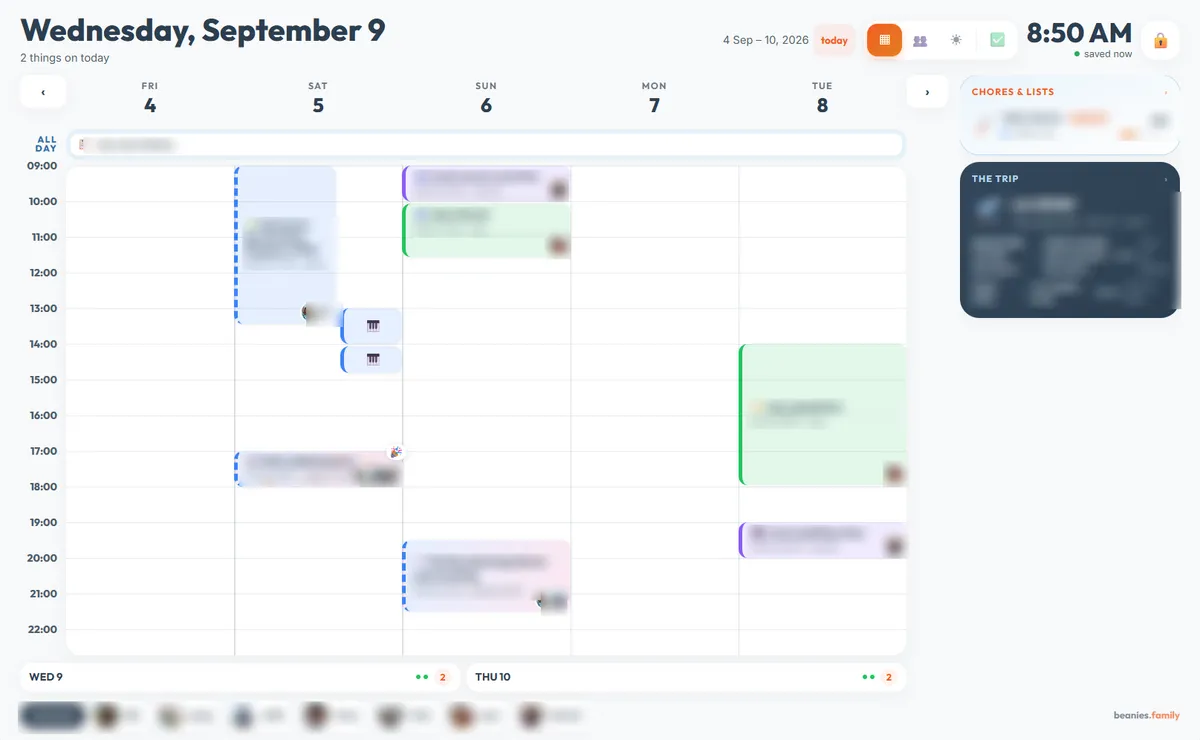
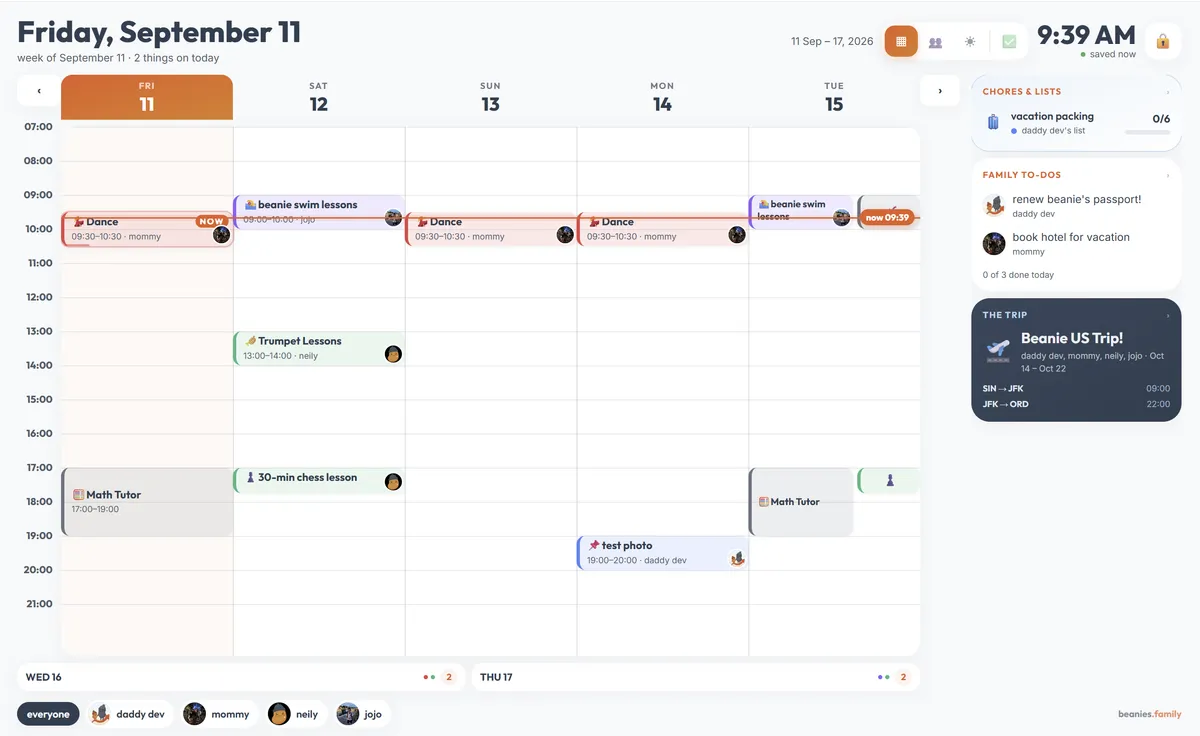
content(blog): real family data out of the wall screenshots
Both wall shots are re-shot on the dev server with a fake family, replacing
the blur. Better outcome than blurring on every count: the UI reads properly
again, and there is nothing left to un-blur.

What the old pair leaked, and no longer does: seven real first names, the
kids' activities and schools, and a dated flight itinerary that doubled as a
notice of when the house would be empty.

Also from Notion: the first caption drops "not actually from 1970" (the image
is plainly a 1970 calendar, so the line read as an error rather than a joke),
both wall captions are rewritten, and "an app for that, too" takes its comma.
Alt text re-written against what the new screenshots actually show, not
carried over from the old ones.

Claude-Session: https://claude.ai/code/session_0142LvHxKZrUvYQzTvoH7LL1

diff --git a/content/blog/2026-09-11-beanie-wall-for-your-whole-family.md b/content/blog/2026-09-11-beanie-wall-for-your-whole-family.md
@@ -22,7 +22,7 @@ At the end of every year, one of the holiday presents from my mom would always b
 
 ![A vintage SAS Scandinavian Airlines wall calendar opened to October 1970, an abstract painting of a Bangkok floating market above the month grid, with a few days annotated by hand](/blog/beanie-wall-kitchen-calendar.webp)
 
-_not my actual family calendar. but something like this. not actually from 1970._
+_not my actual family calendar. but something like this. brings back memories._
 
 And by the way, while we’re taking this nice walk down memory lane, another fond memory from childhood was the weekly allowance I got for doing my chores every day (well - almost every day). My chores routine taught me a valuable lesson in responsibility, hard work, and exploiting legal loopholes. Because, and I’m a bit nervous to say this, since this is the first time I’ve ever admitted this out loud, my mom never really had a reliable way to track whether I actually did those chores.
 
@@ -57,13 +57,13 @@ I also wanted to address some of the biggest (actual) complaints about the Skyli
 
 The result? Well, let me show you. Here it is:
 
-![The beanie wall running on a tablet, showing the family week as a timetable of everyone's activities, with a chores progress card and an upcoming trip card down the right-hand side](/blog/beanie-wall-daily-view.webp)
+![The beanie wall running on a tablet, showing the family week as a timetable of everyone's activities, with a packing list, a family to-do card and an upcoming trip card down the right-hand side](/blog/beanie-wall-daily-view.webp)
 
-_yes, i’m writing this while sitting on the floor at my son’s cubing competition_
+_not our real schedule. i’m actually writing this while sitting on the floor at my son’s cubing competition._
 
-![The beanie wall's chore board on a tablet, one column per child, each finished chore struck through with the time it was done, and a row of stars along the bottom](/blog/beanie-wall-jobs-board.webp)
+![The beanie wall's chore board on a tablet, one column per family member, showing a vacation packing list and grocery list alongside each child's repeating chores](/blog/beanie-wall-jobs-board.webp)
 
-_you better finish those chores if you want that allowance_
+_you better finish those chores if you want that allowance. and daddy’s gotta finish packing too._
 
 And how do I know my family loves it? Well, check out these (drama) beans.
 
@@ -73,7 +73,7 @@ _members of the academy - for your consideration_
 
 Theatrics notwithstanding, the kids are actually neck-deep into their chore-checking routines now, and it really does seem like they finish their chores more proactively. Not only that, they ask me about upcoming events on the calendar, and run to me for their allowance as soon as their weekly chore board is complete. It’s like a beanie dream come true. Now, if only I could get them to start sharing their toys.
 
-On my side, I can flip back in the app at any time to make sure they checked everything off. Of course, whether or not they really did that chore - that requires me to actually check their homework. Someday, I’ll make an app for that too.
+On my side, I can flip back in the app at any time to make sure they checked everything off. Of course, whether or not they really did that chore - that requires me to actually check their homework. Someday, I’ll make an app for that, too.
 
 **_The beanie wall_** is now officially live in my house, and we’re loving it. I’m excited to see how your family likes it as well - so if you set it up too, [let me know how it works for you](https://beanies.family/discord?utm_source=blog&utm_medium=post&utm_campaign=beanie-wall-for-your-whole-family&utm_content=discord-cta)!
 
